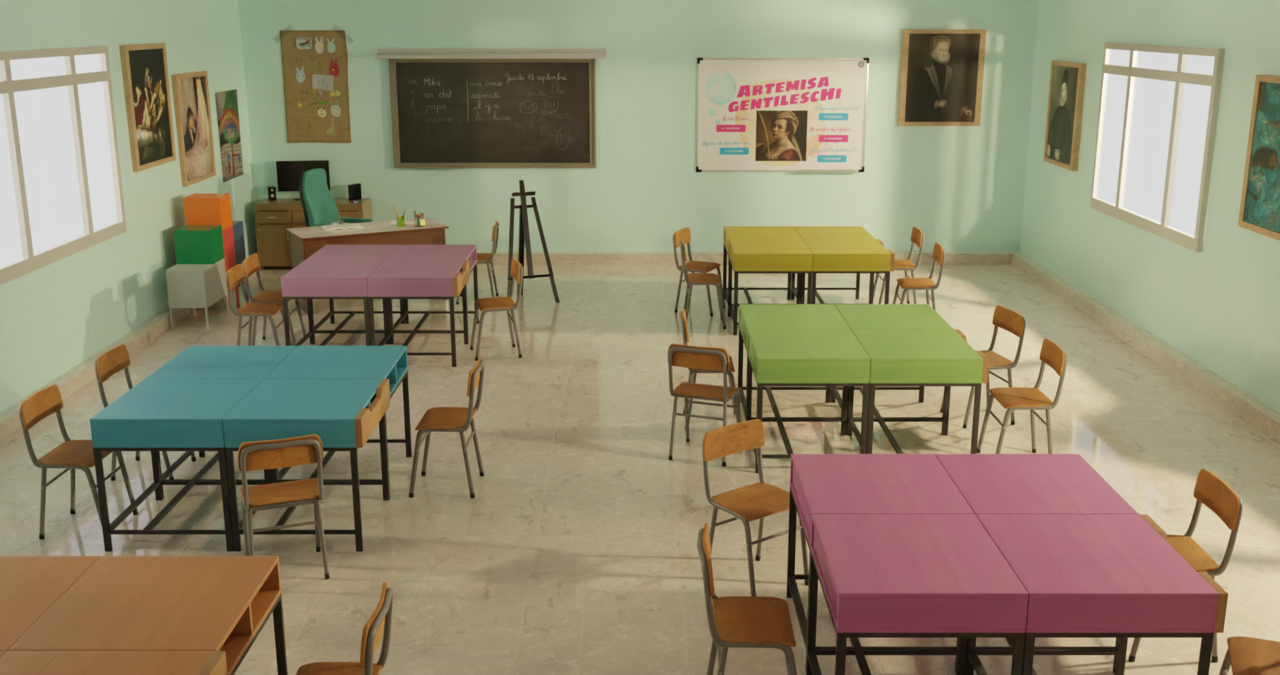
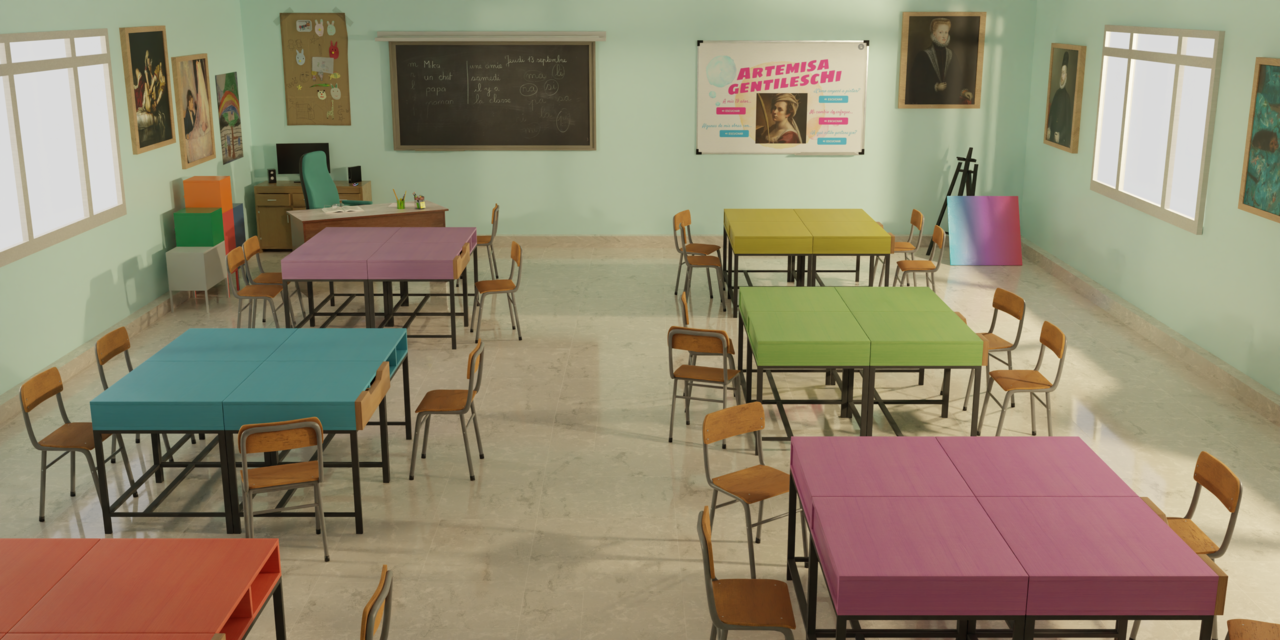
Change Image Classroom
Raplace the classroom renders for a  more recient version

diff --git a/pages/classroom360.html b/pages/classroom360.html
@@ -17,6 +17,6 @@
         
         <a-scene>
             <a-sky 
-                src="../images/RendersFinales/Classroom/classroom11.png" >
+                src="../images/RendersFinales/Classroom/classroom10.png" >
             </a-sky>
         </a-scene>
